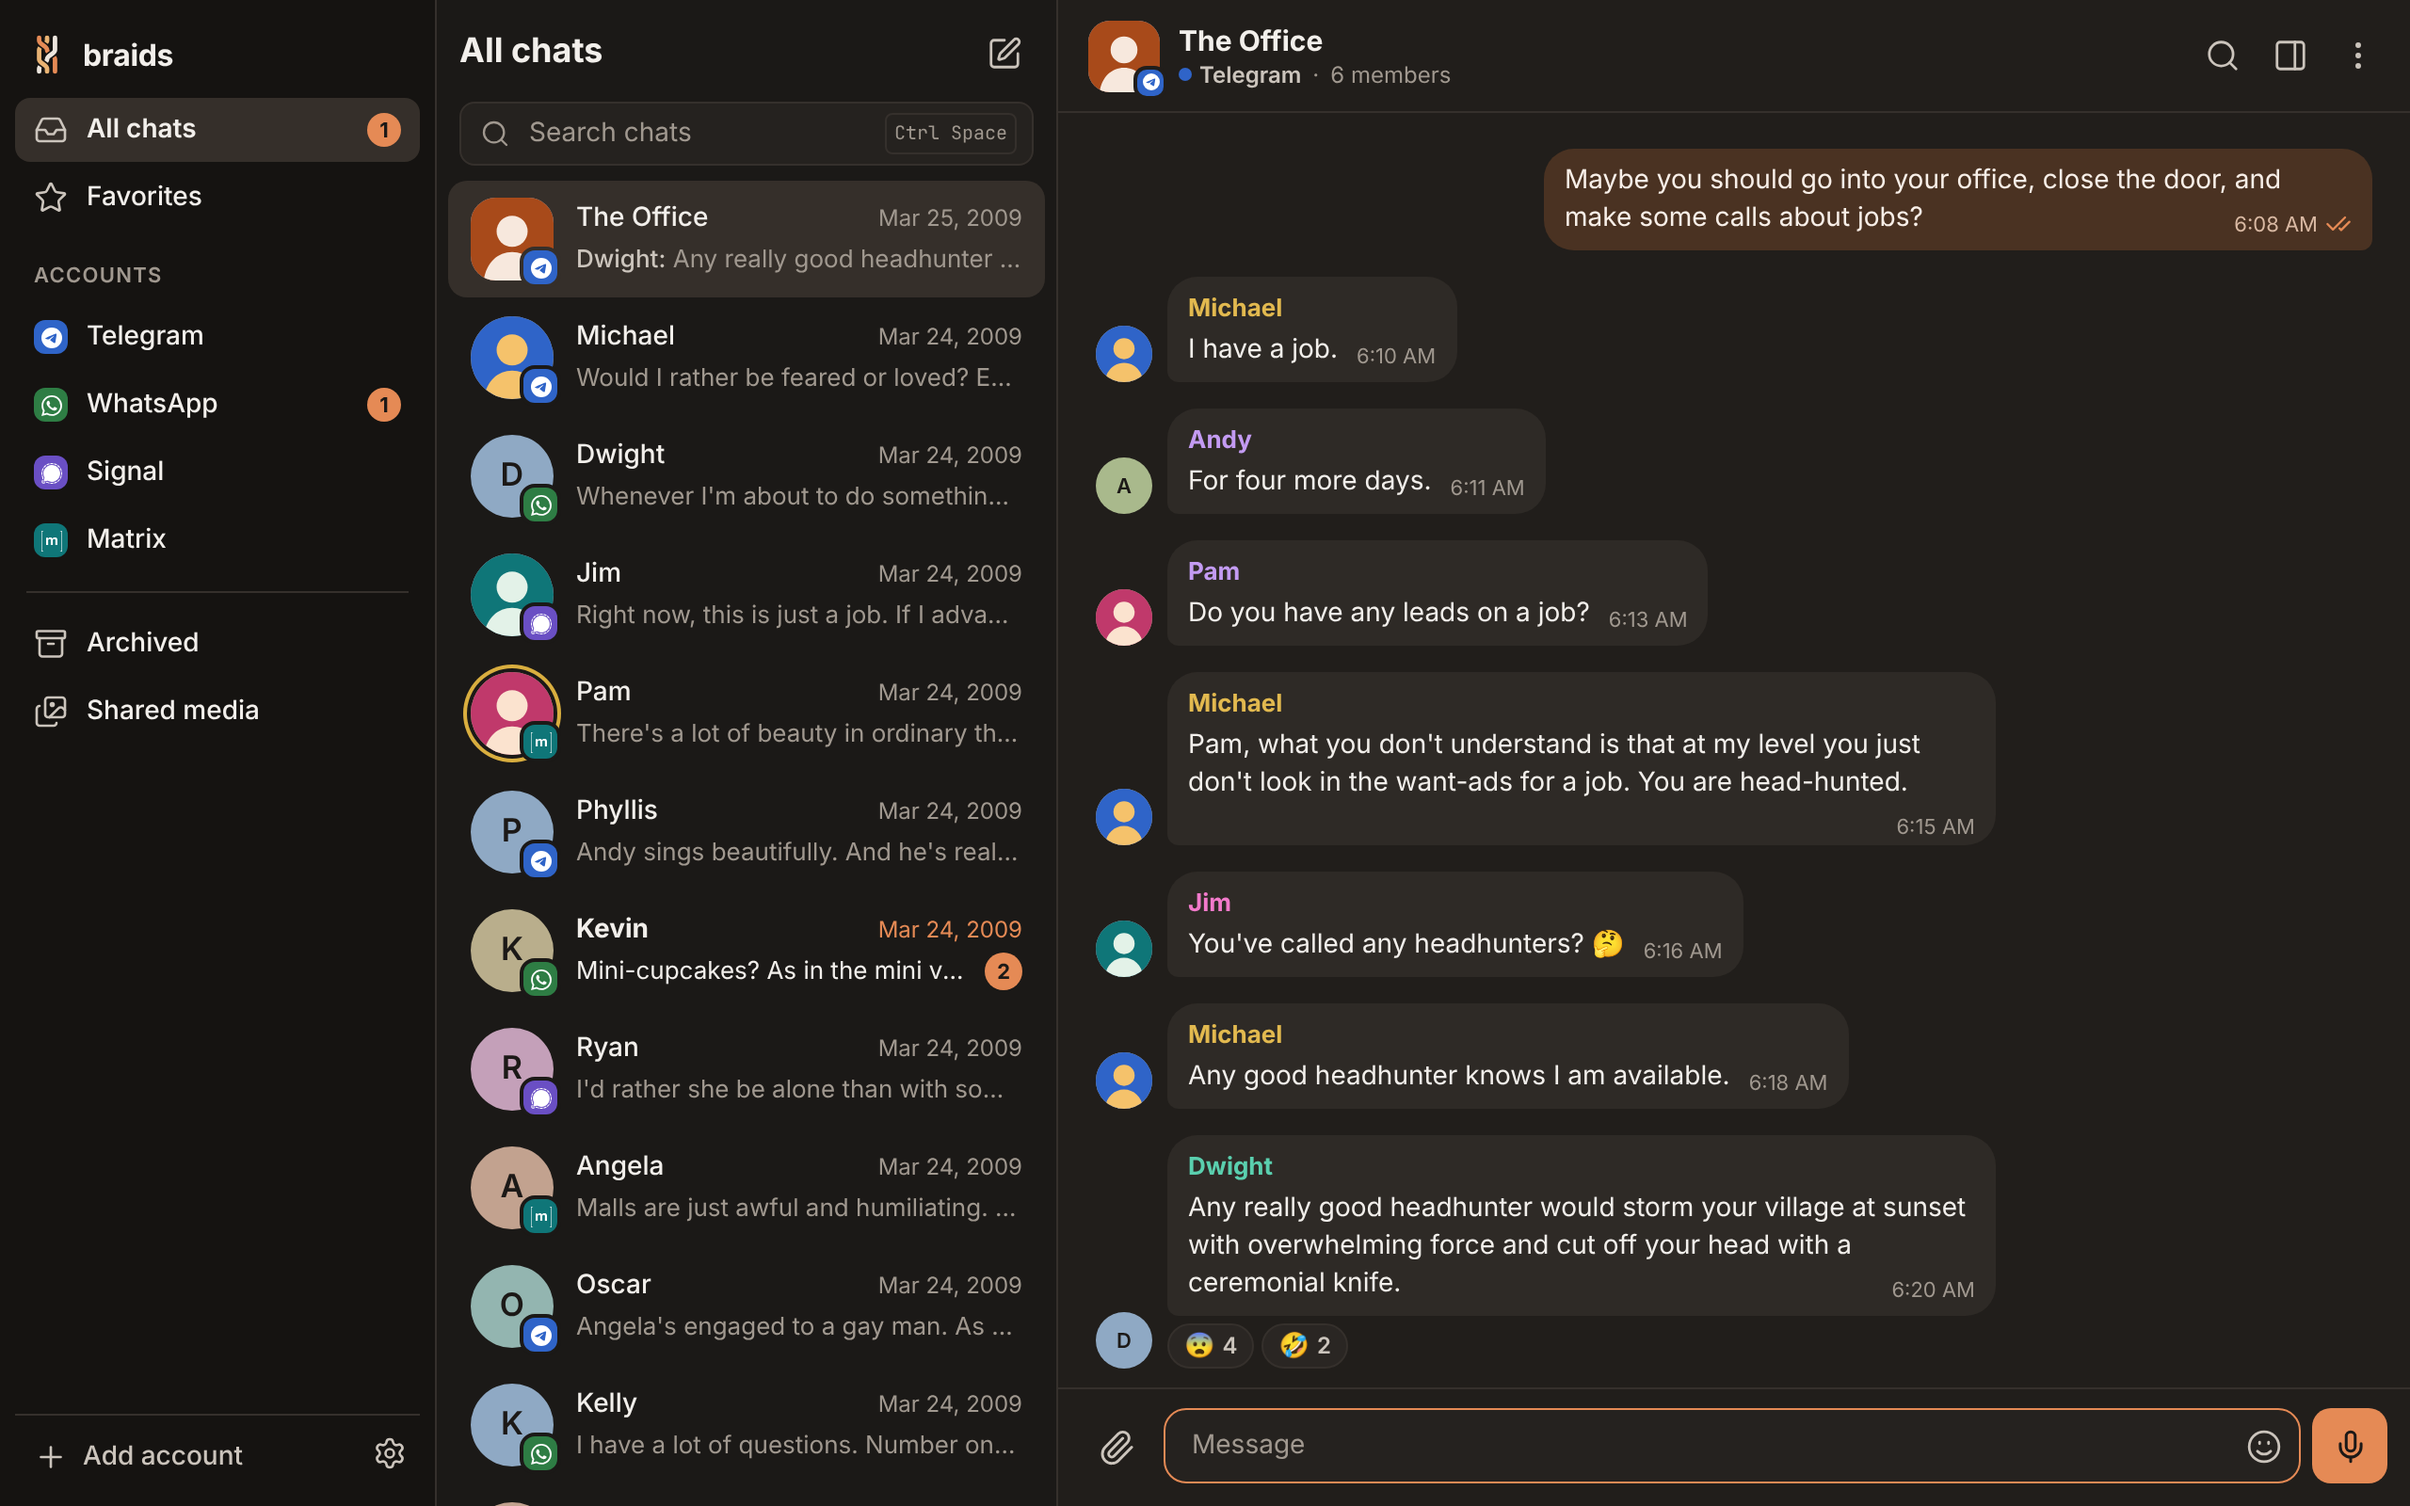
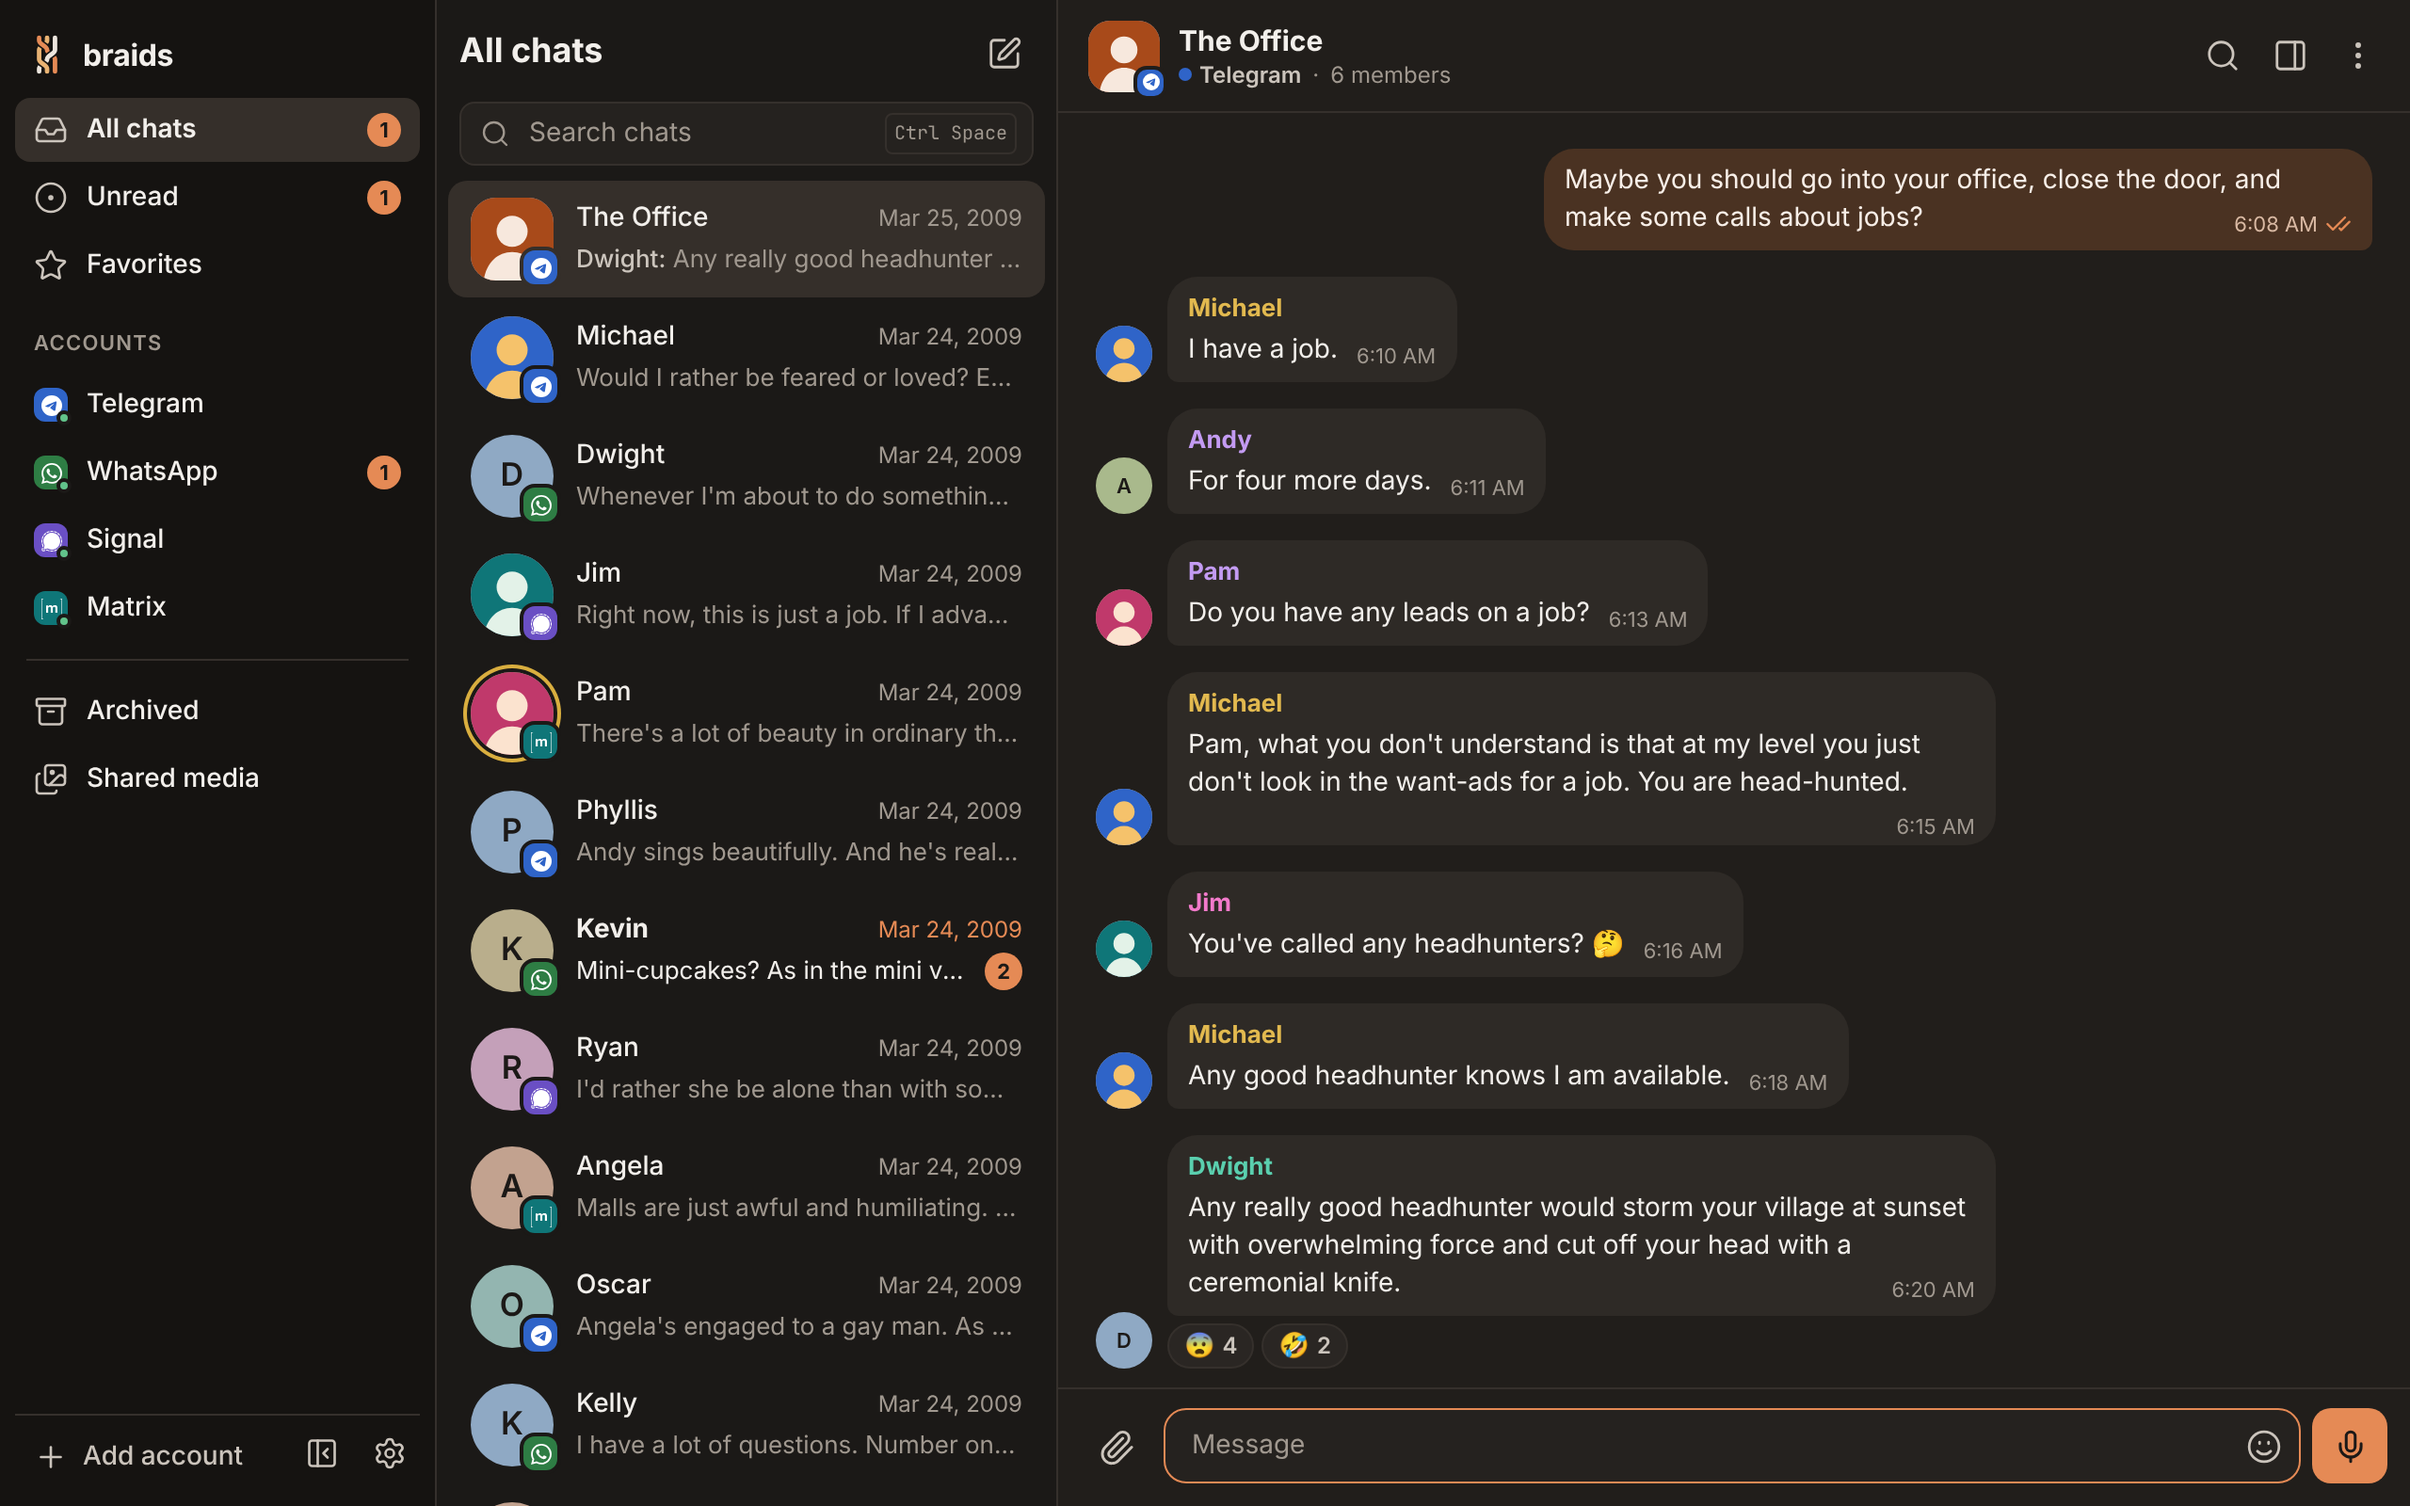
Version 0.3.0: changelog, website version tag, fresh screenshots
- Website: the latest version next to the install command, "beta" before
  1.0.0 (stamped when the site is published, updated from the latest
  GitHub release in the page).
- Screenshots and README demo with the Unread folder and account states.

Claude-Session: https://claude.ai/code/session_01SxPz8dyLJgfoZzDprSPfsL

diff --git a/site/index.html b/site/index.html
@@ -66,7 +66,12 @@
   .protocols { display: flex; justify-content: center; gap: 22px; flex-wrap: wrap; margin-top: 28px; color: var(--text-2); font-size: 15px; font-weight: 500; }
   .protocols span { display: inline-flex; align-items: center; gap: 8px; }
   .protocols svg { width: 22px; height: 22px; }
-  .install { max-width: 640px; margin: 36px auto 0; }
+  .install { max-width: 640px; margin: 36px auto 0; display: flex; flex-direction: column; }
+  .version { display: inline-flex; align-items: center; gap: 8px; margin: 0 auto 12px; padding: 4px 12px; border-radius: 999px; border: 1px solid var(--border, rgba(127,127,127,.25)); font-size: 13px; color: inherit; text-decoration: none; opacity: .9; }
+  .version:hover { opacity: 1; }
+  .version b { font-weight: 650; }
+  .beta { display: inline-block; margin-left: 6px; padding: 1px 7px; border-radius: 999px; background: var(--accent); color: #fff; font-size: 11px; font-weight: 700; letter-spacing: .04em; text-transform: uppercase; vertical-align: middle; }
+  .ver-inline { font-weight: 500; opacity: .75; font-size: .85em; }
   .cmd { display: flex; align-items: center; gap: 12px; padding: 14px 14px 14px 18px; border-radius: 12px; background: var(--code-bg); color: var(--code-text); font: 14px/1.4 var(--mono); text-align: left; box-shadow: var(--shadow); }
   .cmd code { flex: 1; min-width: 0; overflow-x: auto; white-space: nowrap; scrollbar-width: none; }
   .cmd code::before { content: '$ '; color: #8E857C; }
@@ -183,6 +188,7 @@
         <span><svg viewBox="0 0 24 24" fill="currentColor" aria-hidden="true"><path d="M.632.55v22.9H2.28V24H0V0h2.28v.55zm7.043 7.26v1.157h.033c.309-.443.683-.784 1.117-1.024.433-.245.936-.365 1.5-.365.54 0 1.033.107 1.481.314.448.208.785.582 1.02 1.108.254-.374.6-.706 1.034-.992.434-.287.95-.43 1.546-.43.453 0 .872.056 1.26.167.388.11.716.286.993.53.276.245.489.559.646.951.152.392.23.863.23 1.417v5.728h-2.349V11.52c0-.286-.01-.559-.032-.812a1.755 1.755 0 0 0-.18-.66 1.106 1.106 0 0 0-.438-.448c-.194-.11-.457-.166-.785-.166-.332 0-.6.064-.803.189a1.38 1.38 0 0 0-.48.499 1.946 1.946 0 0 0-.231.696 5.56 5.56 0 0 0-.06.785v4.768h-2.35v-4.8c0-.254-.004-.503-.018-.752a2.074 2.074 0 0 0-.143-.688 1.052 1.052 0 0 0-.415-.503c-.194-.125-.476-.19-.854-.19-.111 0-.259.024-.439.074-.18.051-.36.143-.53.282-.171.138-.319.337-.439.595-.12.259-.18.6-.18 1.02v4.966H5.46V7.81zm15.693 15.64V.55H21.72V0H24v24h-2.28v-.55z"/></svg>Matrix</span>
       </div>
       <div class="install">
+        <a class="version" href="https://github.com/pebll/braids/releases/latest" data-version>Latest version <b data-version-number>v@VERSION@</b><span class="beta" data-beta hidden>beta</span></a>
         <div class="cmd"><code id="install-cmd">curl -fsSL https://pebll.github.io/braids/install.sh | sh</code><button class="copy" data-copy="install-cmd">Copy</button></div>
         <p class="install-note">Linux (x86_64 and ARM64) · no root needed · <a href="#download">other ways to install</a></p>
       </div>
@@ -295,8 +301,8 @@
       <div class="dl">
         <div class="card main">
           <span class="tag">Recommended</span>
-          <h3>Install script</h3>
-          <p>Installs to your home folder (no root), adds braids to the app menu, and updates it when run again.</p>
+          <h3>Install script <span class="ver-inline">· <span data-version-number>v@VERSION@</span><span class="beta" data-beta hidden>beta</span></span></h3>
+          <p>Installs the latest version to your home folder (no root), adds braids to the app menu, and updates it when run again.</p>
           <div class="cmd"><code id="install-cmd-2">curl -fsSL https://pebll.github.io/braids/install.sh | sh</code><button class="copy" data-copy="install-cmd-2">Copy</button></div>
           <p class="install-note">Remove it with <code>curl -fsSL https://pebll.github.io/braids/install.sh | sh -s -- --uninstall</code></p>
         </div>
@@ -358,6 +364,18 @@ cd app && npm install && npm run tauri build</pre>
 </footer>
 
 <script>
+  // the version: stamped when the site is published, then the latest release
+  // (install.sh installs that one); "beta" before 1.0.0
+  function showVersion(v) {
+    if (!/^\d+\.\d+\.\d+/.test(v)) return;
+    document.querySelectorAll('[data-version-number]').forEach((el) => { el.textContent = 'v' + v; });
+    document.querySelectorAll('[data-beta]').forEach((el) => { el.hidden = !v.startsWith('0.'); });
+  }
+  showVersion(document.querySelector('[data-version-number]').textContent.replace(/^v/, ''));
+  fetch('https://api.github.com/repos/pebll/braids/releases/latest')
+    .then((r) => (r.ok ? r.json() : null))
+    .then((r) => r && showVersion(String(r.tag_name).replace(/^v/, '')))
+    .catch(() => {});
   document.querySelectorAll('.copy').forEach((button) => {
     button.addEventListener('click', async () => {
       const text = document.getElementById(button.dataset.copy).textContent;

diff --git a/lib/common/src/version.h b/lib/common/src/version.h
@@ -7,4 +7,4 @@
 
 #pragma once
 
-#define NCHAT_VERSION "0.2.0" // braids version (macro name kept from nchat)
+#define NCHAT_VERSION "0.3.0" // braids version (macro name kept from nchat)

diff --git a/CHANGELOG.md b/CHANGELOG.md
@@ -6,10 +6,39 @@ release workflow publishes the section of a version as its release notes.
 
 ## [Unreleased]
 
+## [0.3.0] - 2026-11-05
+
+### New
+- Messages you send show up at once. While an account is offline they wait,
+  greyed out with a clock, and go out as soon as it is back (also after
+  restarting braids). A message the messenger refuses is marked
+  "Not sent", with "Send again" and "Delete". (#10)
+- braids reconnects right after the computer wakes up or the network comes
+  back, instead of waiting for the connection to time out. Each account in
+  the sidebar shows its state with a dot (green online, amber connecting or
+  fetching, grey offline, red error), and its tooltip says when it was
+  last up to date. (#13)
+- Keyboard: Alt+J/K (and the arrow keys) move a highlight through the chat
+  list and the search results without opening anything. Enter opens the
+  highlighted chat and puts the cursor in the message box. New shortcut
+  "Back to chat list" (Alt+H or Alt+←). In a narrow window the list and
+  chat shortcuts switch back to the list. A click still opens a chat
+  directly. (#12)
+- An "Unread" folder (Ctrl+U) with the unread chats.
+- An unread chat opens at the "New messages" line, a read one at the
+  newest message.
+- Click a profile picture in the chat info to see it full size. In groups,
+  a click on someone's picture or name (or on a member in the chat info)
+  offers "View profile picture" and "Message privately".
+- Ctrl+N with no unread chat left closes the open chat. (#11)
+
 ### Fixed
+- Videos (MP4 and others), GIF videos and video stickers play in the app.
+  Most MP4 videos also need GStreamer's libav plugin; the video viewer
+  names the package to install, and so does the install script.
 - Opening a chat with Enter from the search no longer puts an empty line
-  in the composer.
-- Next unread chat (Ctrl+N) clears the search and goes through all chats.
+  in the message box.
+- Ctrl+N clears the search and goes through all chats.
 - Closing the search in a chat (Esc or ×) puts the cursor back in the
   message box.
 
@@ -62,6 +91,7 @@ The first release.
   dark theme.
 - Install script, .deb package and a self-contained archive.
 
-[Unreleased]: https://github.com/pebll/braids/compare/v0.2.0...HEAD
+[Unreleased]: https://github.com/pebll/braids/compare/v0.3.0...HEAD
+[0.3.0]: https://github.com/pebll/braids/compare/v0.2.0...v0.3.0
 [0.2.0]: https://github.com/pebll/braids/compare/v0.1.0...v0.2.0
 [0.1.0]: https://github.com/pebll/braids/releases/tag/v0.1.0

diff --git a/CLAUDE.md b/CLAUDE.md
@@ -123,3 +123,14 @@ Scheduled-later features are in `doc/BACKLOG.md`.
   (`src-tauri/src/linkpreview.rs`, no local/LAN addresses). Adding a request
   or notify type to `protocol.h` shifts the enum: rebuild all protocol
   libraries (`make`, not only `make braidsd`).
+- Outbox: `messages.send` queues in `ChatModel` (`OutboxEntry`, ids
+  `braids-out-…`, `<profile>/braids-outbox.json`), emitted as pending
+  messages; the request's `chatMessage.id` carries the local id back in
+  `SendMessageNotify`; the echo is matched by text/file name
+  (`MatchOutboxEcho`). Dummy: `/offline N`, `/fail` for tests.
+- Reconnect: `ReconnectRequest` / `accounts.reconnect`, called by the app on
+  wake (timer gap) and when the network returns.
+- Media: WebKitGTK does not play media from the `asset:` protocol; videos and
+  audio go through blob URLs (`app/src/lib/media.ts`, `use:mediaSrc`).
+- Chat list keyboard: one highlight (`ui.listCursor`, `ui.list`), Alt+J/K
+  move it, Enter opens.
